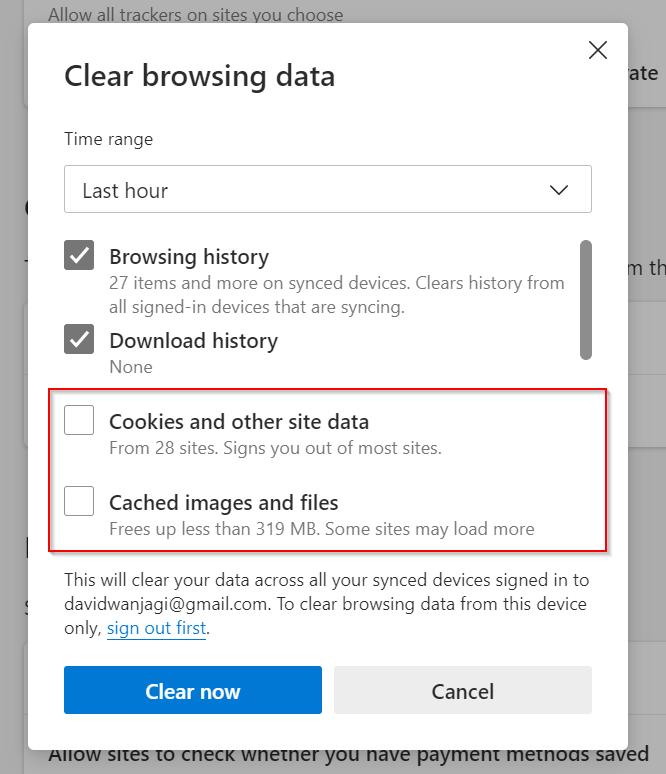
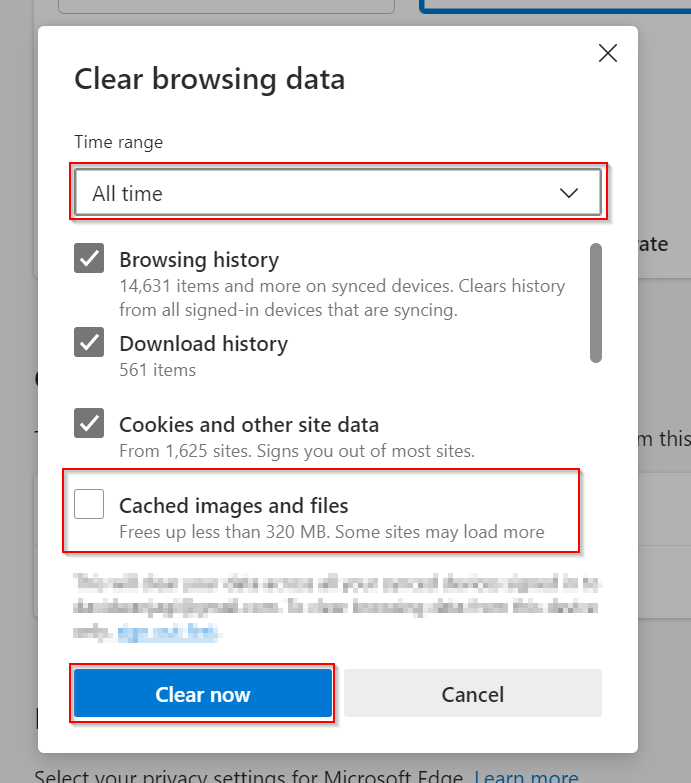
version 20 upgrade

diff --git a/docs/garagehive-upgrade-to-version-20-of-business-central.md b/docs/garagehive-upgrade-to-version-20-of-business-central.md
@@ -17,16 +17,17 @@ To resolve this:
    - Delete cache and cookies in the new **Microsoft Edge**:
       1. Open Microsoft Edge, select Menu (3 dots icon on top right corner of the browser) > **Settings** > **Privacy & services**.
       2. Under Clear browsing data, select Choose what to clear.
-      3. Select **Cached images and files** and **Cookies and other site data** check box and then select **Clear**.
+      3. At the top, choose a time range. To delete everything, select **All time**.
+      4. Select **Cached images and files** check box and then select **Clear Now**.
 
       ![](media/garagehive-upgrade-to-version-20-of-business-central2.png)
 
    - In **Google Chrome**:
-       4. On your computer, open Chrome.
-       5. At the top right, click **More**.
-       6. Click **More tools**. Clear browsing data.
-       7. At the top, choose a time range. To delete everything, select **All time**.
-       8. Next to **Cookies and other site data** and **Cached images and files** check the boxes.
-       9.  Click **Clear data**.
+       5. On your computer, open Chrome.
+       6. At the top right, click **More**.
+       7. Click **More tools**. Clear browsing data.
+       8. At the top, choose a time range. To delete everything, select **All time**.
+       9. Select the **Cached images and files** check boxe.
+       10. Click **Clear data**.
 
       ![](media/garagehive-upgrade-to-version-20-of-business-central3.png)
